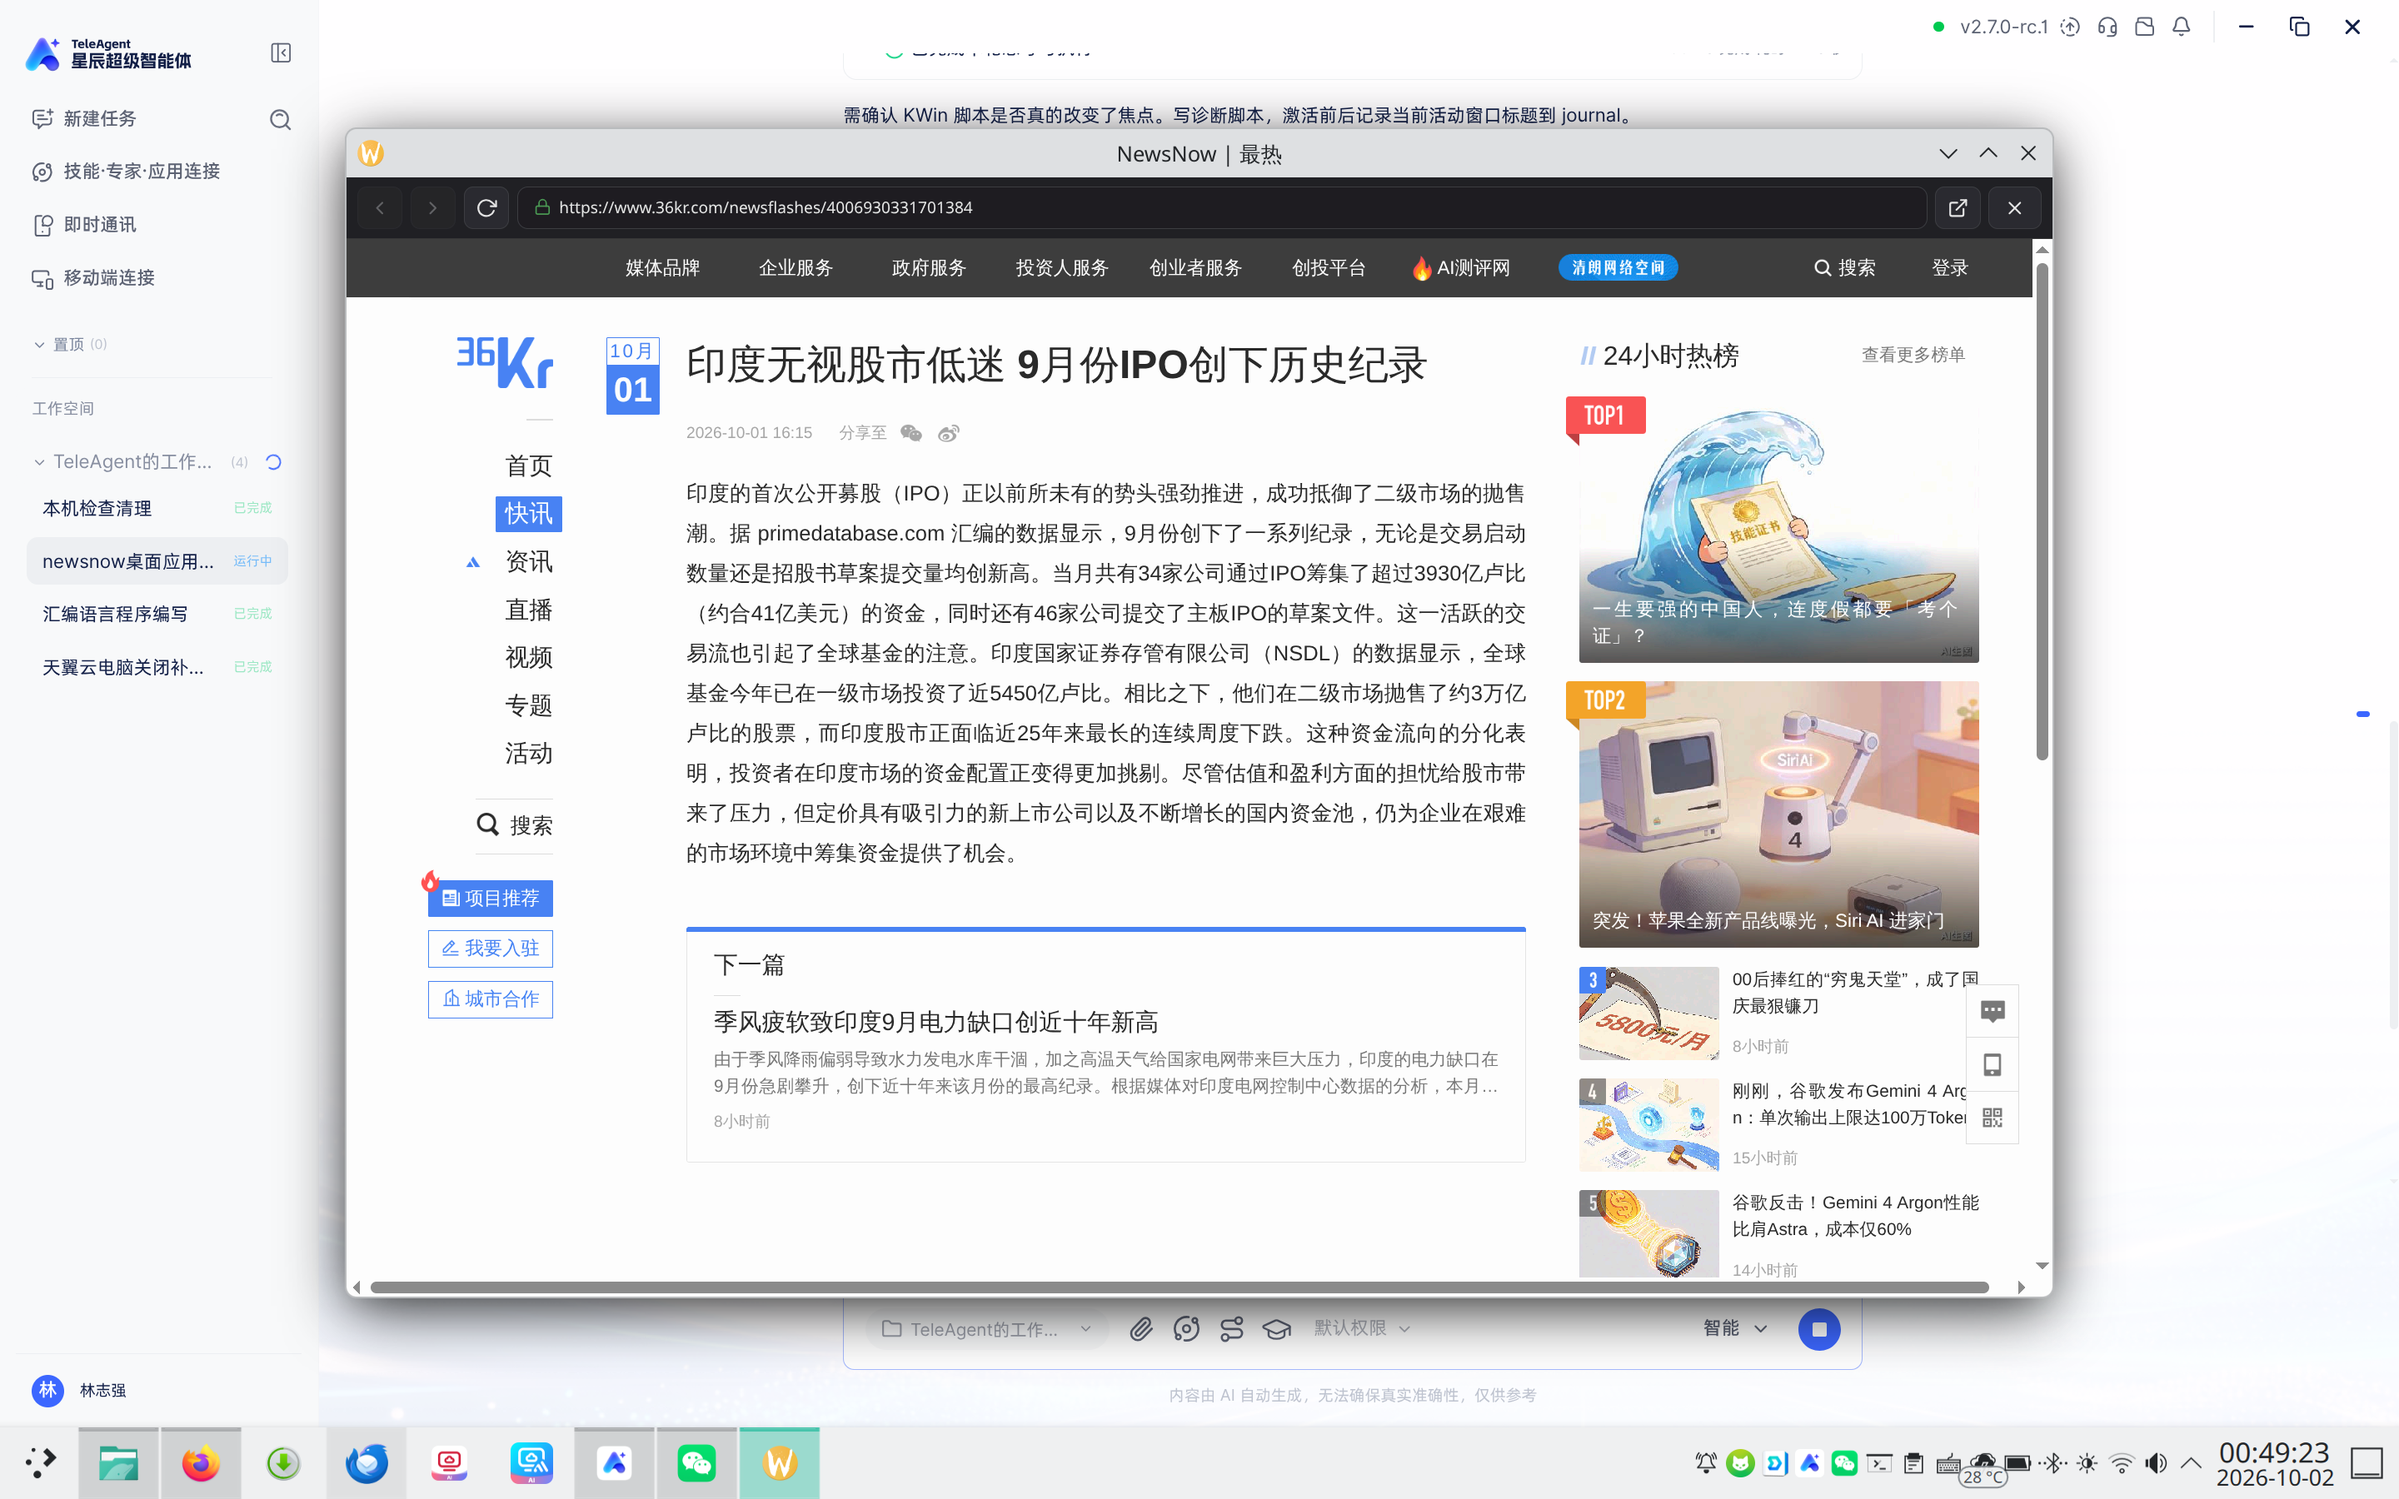
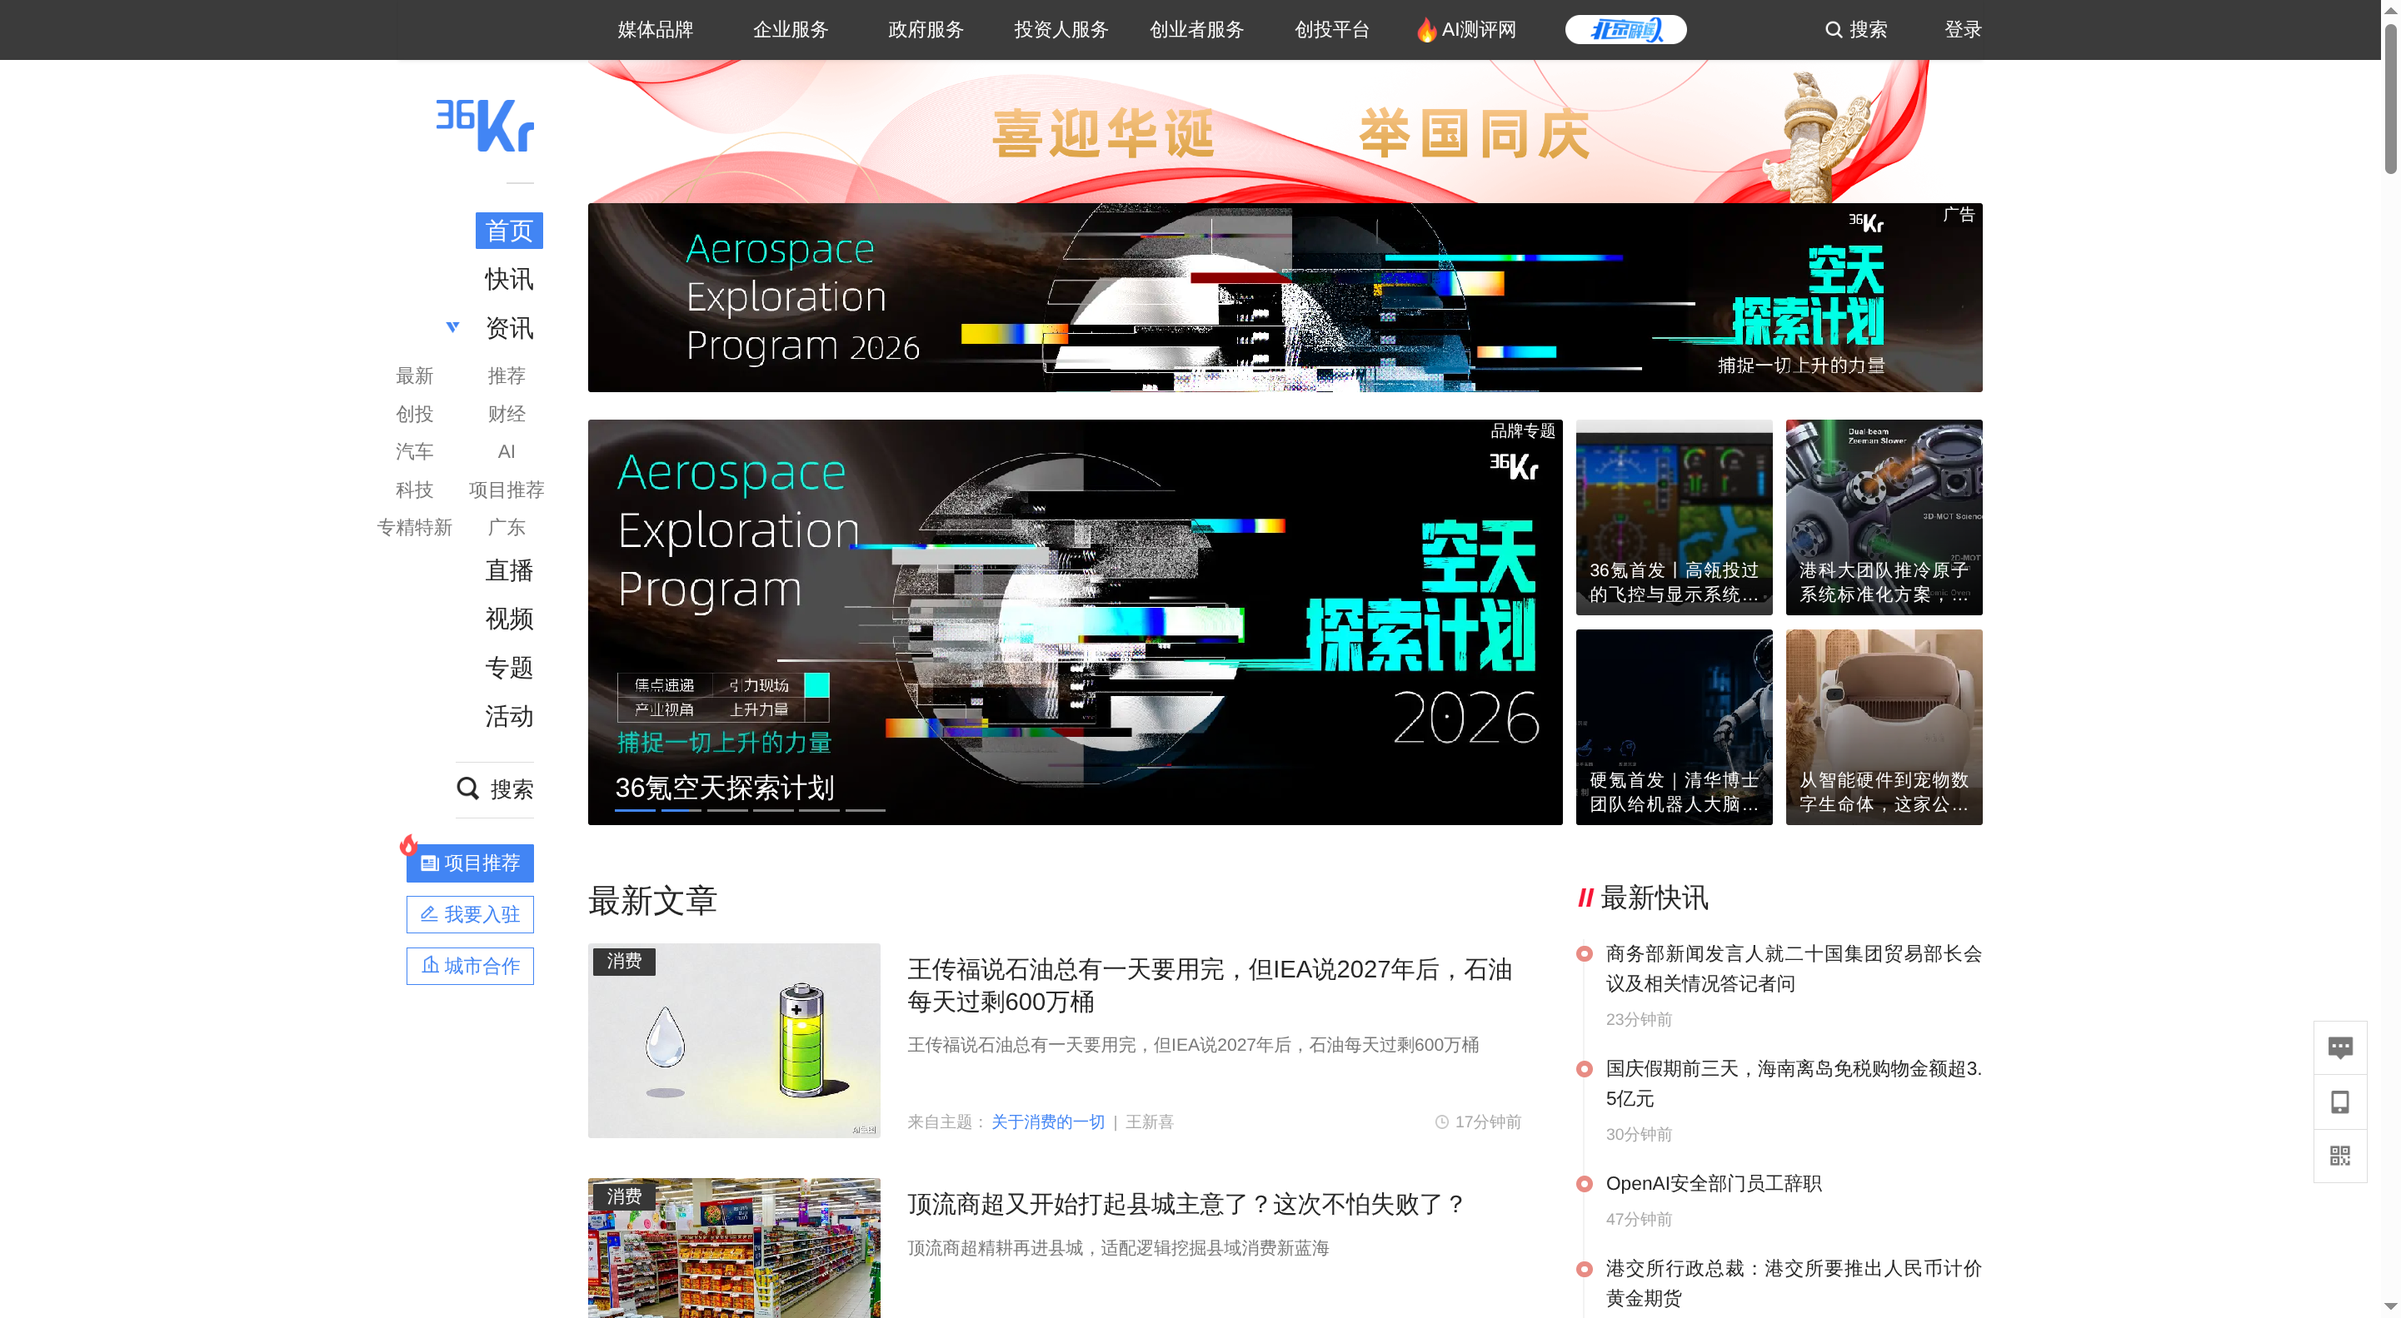
docs: 更新 README 截图为 v3.0.0（桌面 4 张 + 移动端 4 张）+ 修复设置页 RSS 管理 bug
截图全部以 v3.0.0 实机 CDP 抓取重制:
- 桌面端: 新闻列表（最热 8 卡片满数据）/ 内置阅读器（36氪文章）/ 选择订阅面板 / 设置页全页（含数据管理 4 按钮）
- 移动端: 手机视口 390x844 DPR2 首页分类浏览 / 我的星标订阅 / 书签 / 设置（主题/RSS/OPML）
- 删除 v2 时期旧截图（04-v2-desktop.png 等 4 张全部替换）

顺带修复截图过程中发现的真实 bug:
- 设置页为 file:// 协议，fetch app://local API 跨协议不可达，自定义 RSS 源的
  列表/添加/删除从 v2.2.0 起在桌面设置页一直失败（显示"加载失败"）
- 修复: 新增 settings:rss-list/add/remove IPC handler，设置页改走 IPC 通道
- 实测: RSS 区块正常显示、添加/列表/删除全链路通过

diff --git a/settings.html b/settings.html
@@ -190,8 +190,7 @@
 
   async function loadRssFeeds() {
     try {
-      const r = await fetch("app://local/api/rss")
-      const feeds = await r.json()
+      const feeds = await window.settings.rssList()
       const list = $("rssList")
       if (!feeds.length) {
         list.innerHTML = '<div style="opacity:.4;font-size:12px;padding:8px;">暂无自定义源</div>'
@@ -204,7 +203,7 @@
       ).join("")
       list.querySelectorAll(".rss-del").forEach(b => {
         b.onclick = async () => {
-          await fetch("app://local/api/rss/remove", { method: "POST", body: JSON.stringify({ id: b.dataset.rssId }) })
+          await window.settings.rssRemove({ id: b.dataset.rssId })
           loadRssFeeds()
         }
       })
@@ -215,7 +214,8 @@
     const name = $("rssName").value.trim()
     const url = $("rssUrl").value.trim()
     if (!url) return
-    await fetch("app://local/api/rss/add", { method: "POST", body: JSON.stringify({ name, url }) })
+    const r = await window.settings.rssAdd({ name, url })
+    if (!r.ok) { $("ioStatus") && ($("ioStatus").textContent = "✗ 添加失败：" + (r.error || "")); return }
     $("rssName").value = ""
     $("rssUrl").value = ""
     loadRssFeeds()

diff --git a/README.md b/README.md
@@ -277,9 +277,17 @@ npx cap sync ios && npx cap open ios
 
 ## 截图
 
-| 新闻列表 | 内置阅读器 | 选择订阅 | 主界面 |
+### 桌面端（v3.0.0）
+
+| 新闻列表 | 内置阅读器 | 选择订阅 | 设置（数据管理） |
 |:---:|:---:|:---:|:---:|
-| ![列表](screenshots/01-news-list.png) | ![阅读器](screenshots/02-built-in-reader.png) | ![订阅](screenshots/03-subscribe.png) | ![v2](screenshots/04-v2-desktop.png) |
+| ![列表](screenshots/01-news-list.png) | ![阅读器](screenshots/02-built-in-reader.png) | ![订阅](screenshots/03-subscribe.png) | ![设置](screenshots/04-desktop-settings.png) |
+
+### 移动端（v3.0.0）
+
+| 首页分类浏览 | 我的（星标订阅） | 书签 / 历史 | 设置（RSS / OPML） |
+|:---:|:---:|:---:|:---:|
+| ![首页](screenshots/05-mobile-home.png) | ![我的](screenshots/06-mobile-mine.png) | ![书签](screenshots/07-mobile-saves.png) | ![设置](screenshots/08-mobile-settings.png) |
 
 ## 版本历史
 
